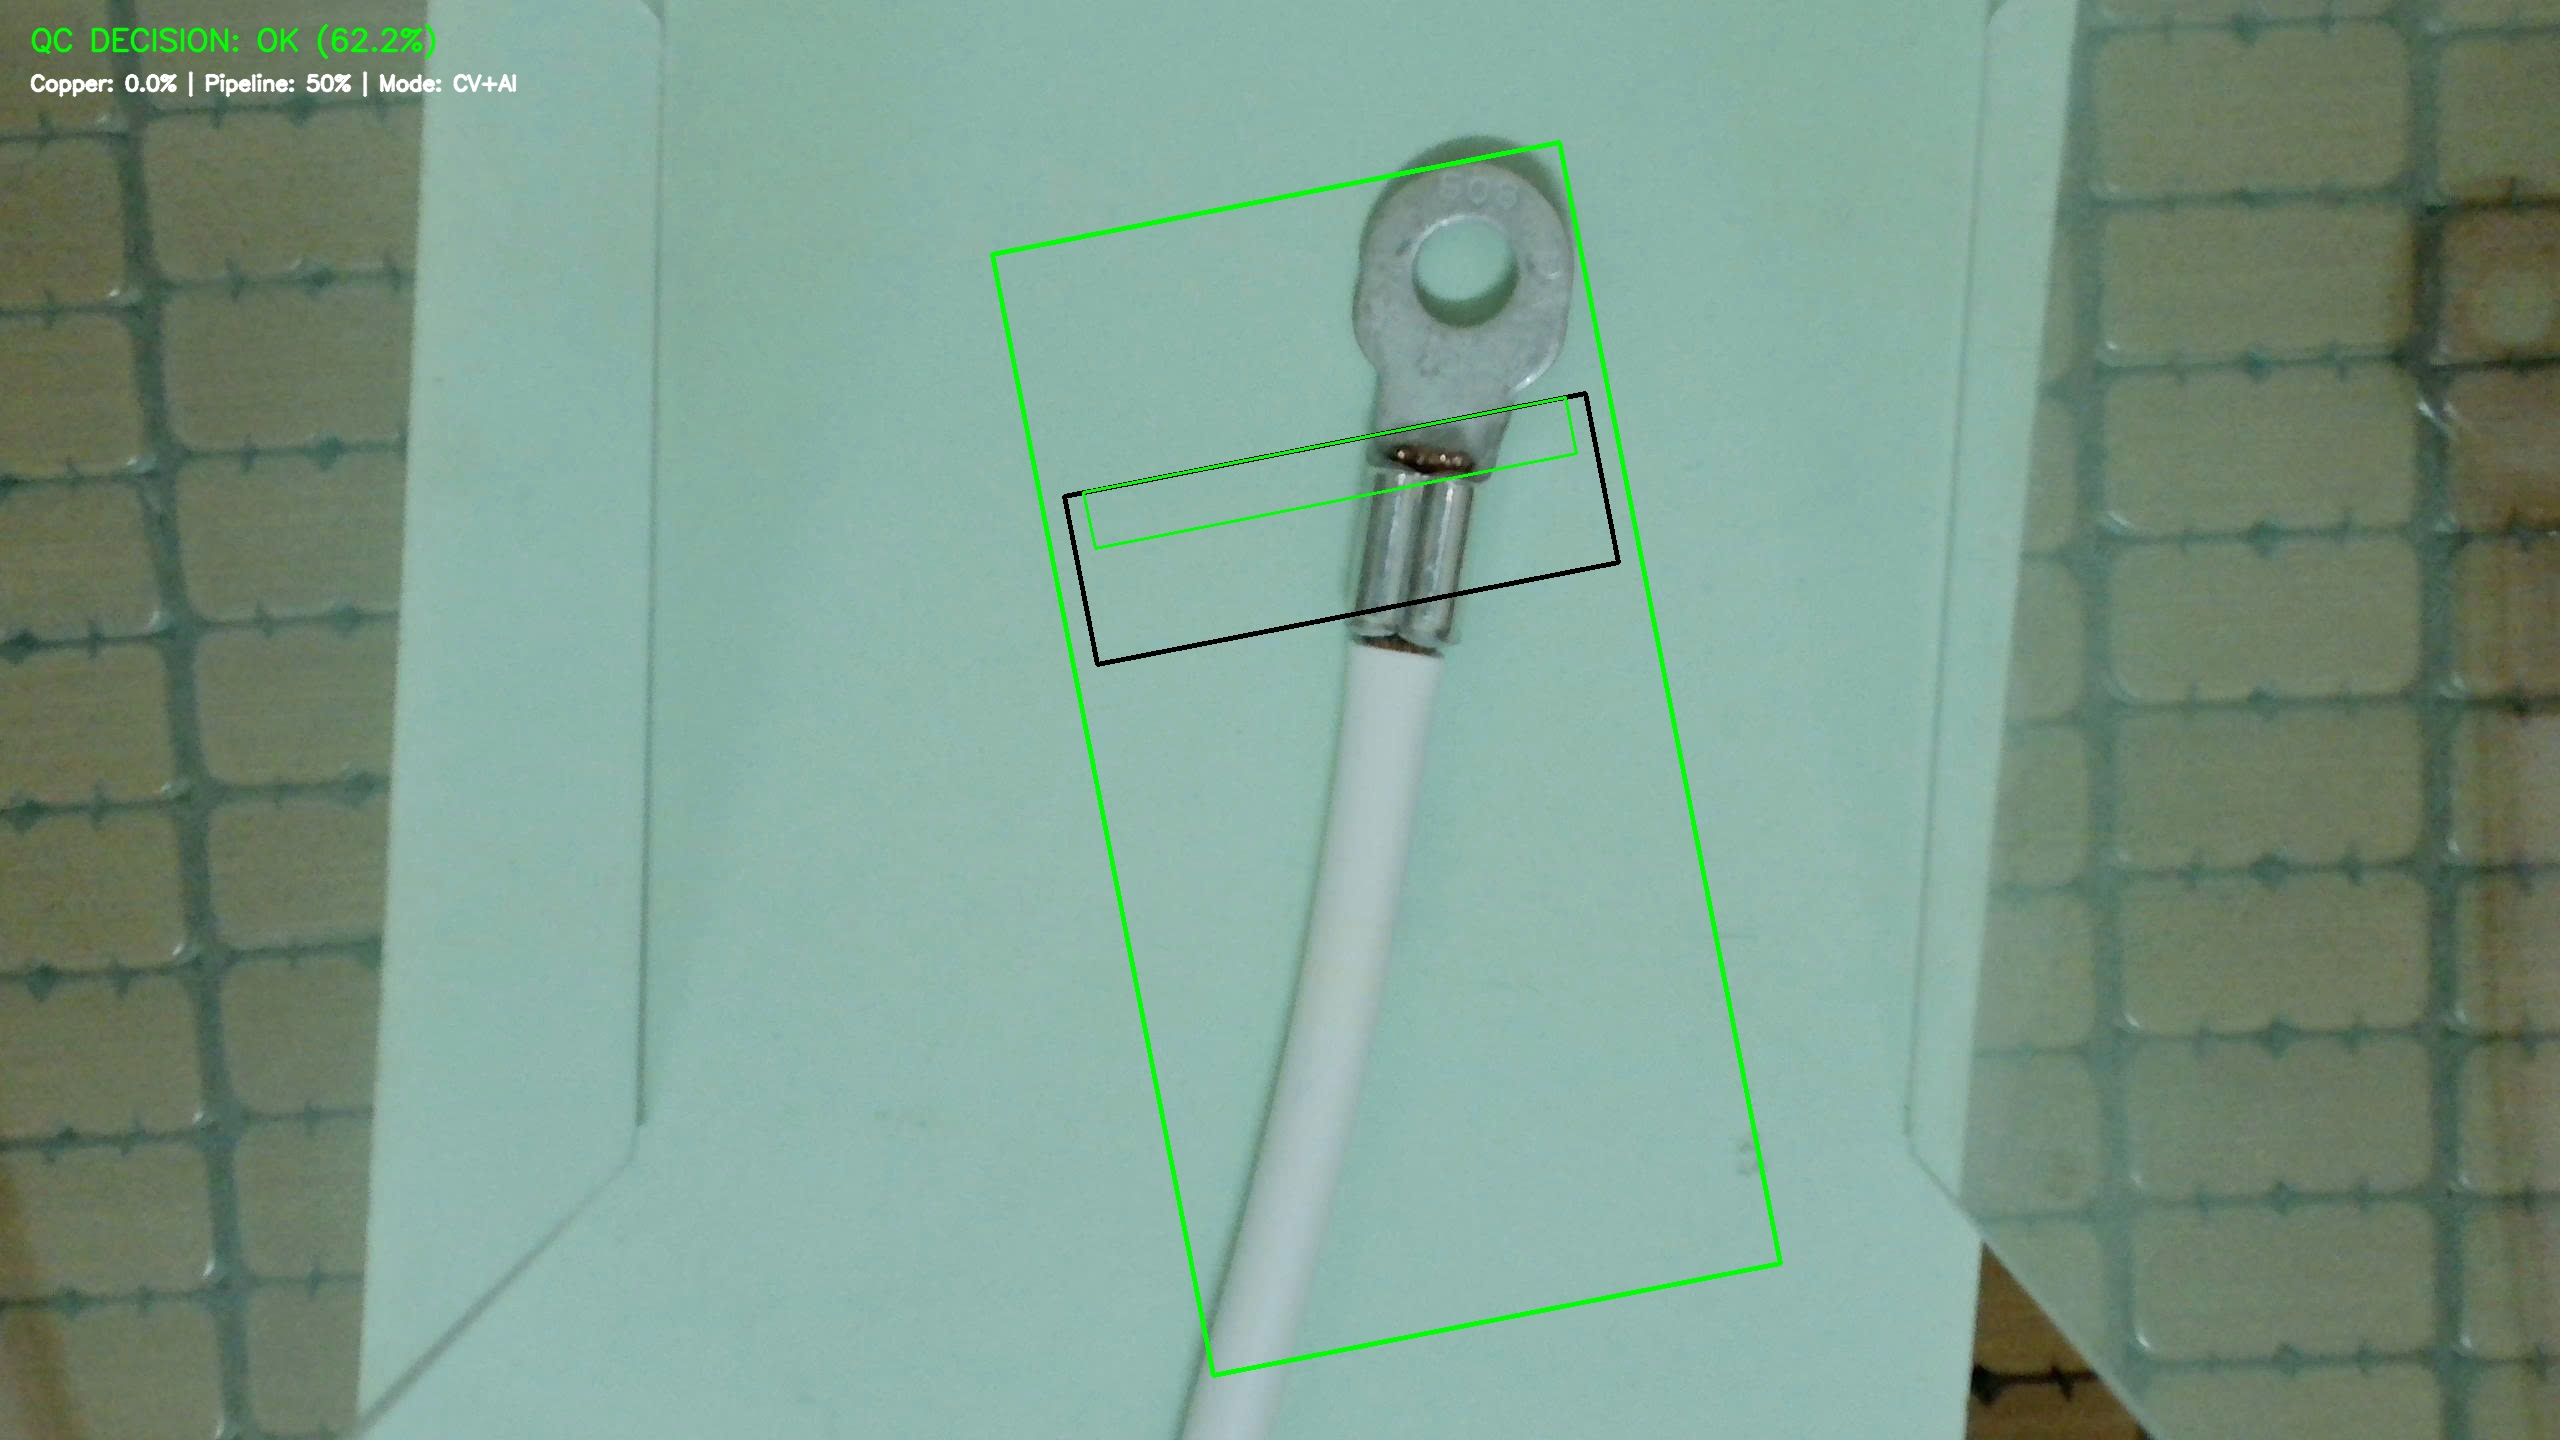
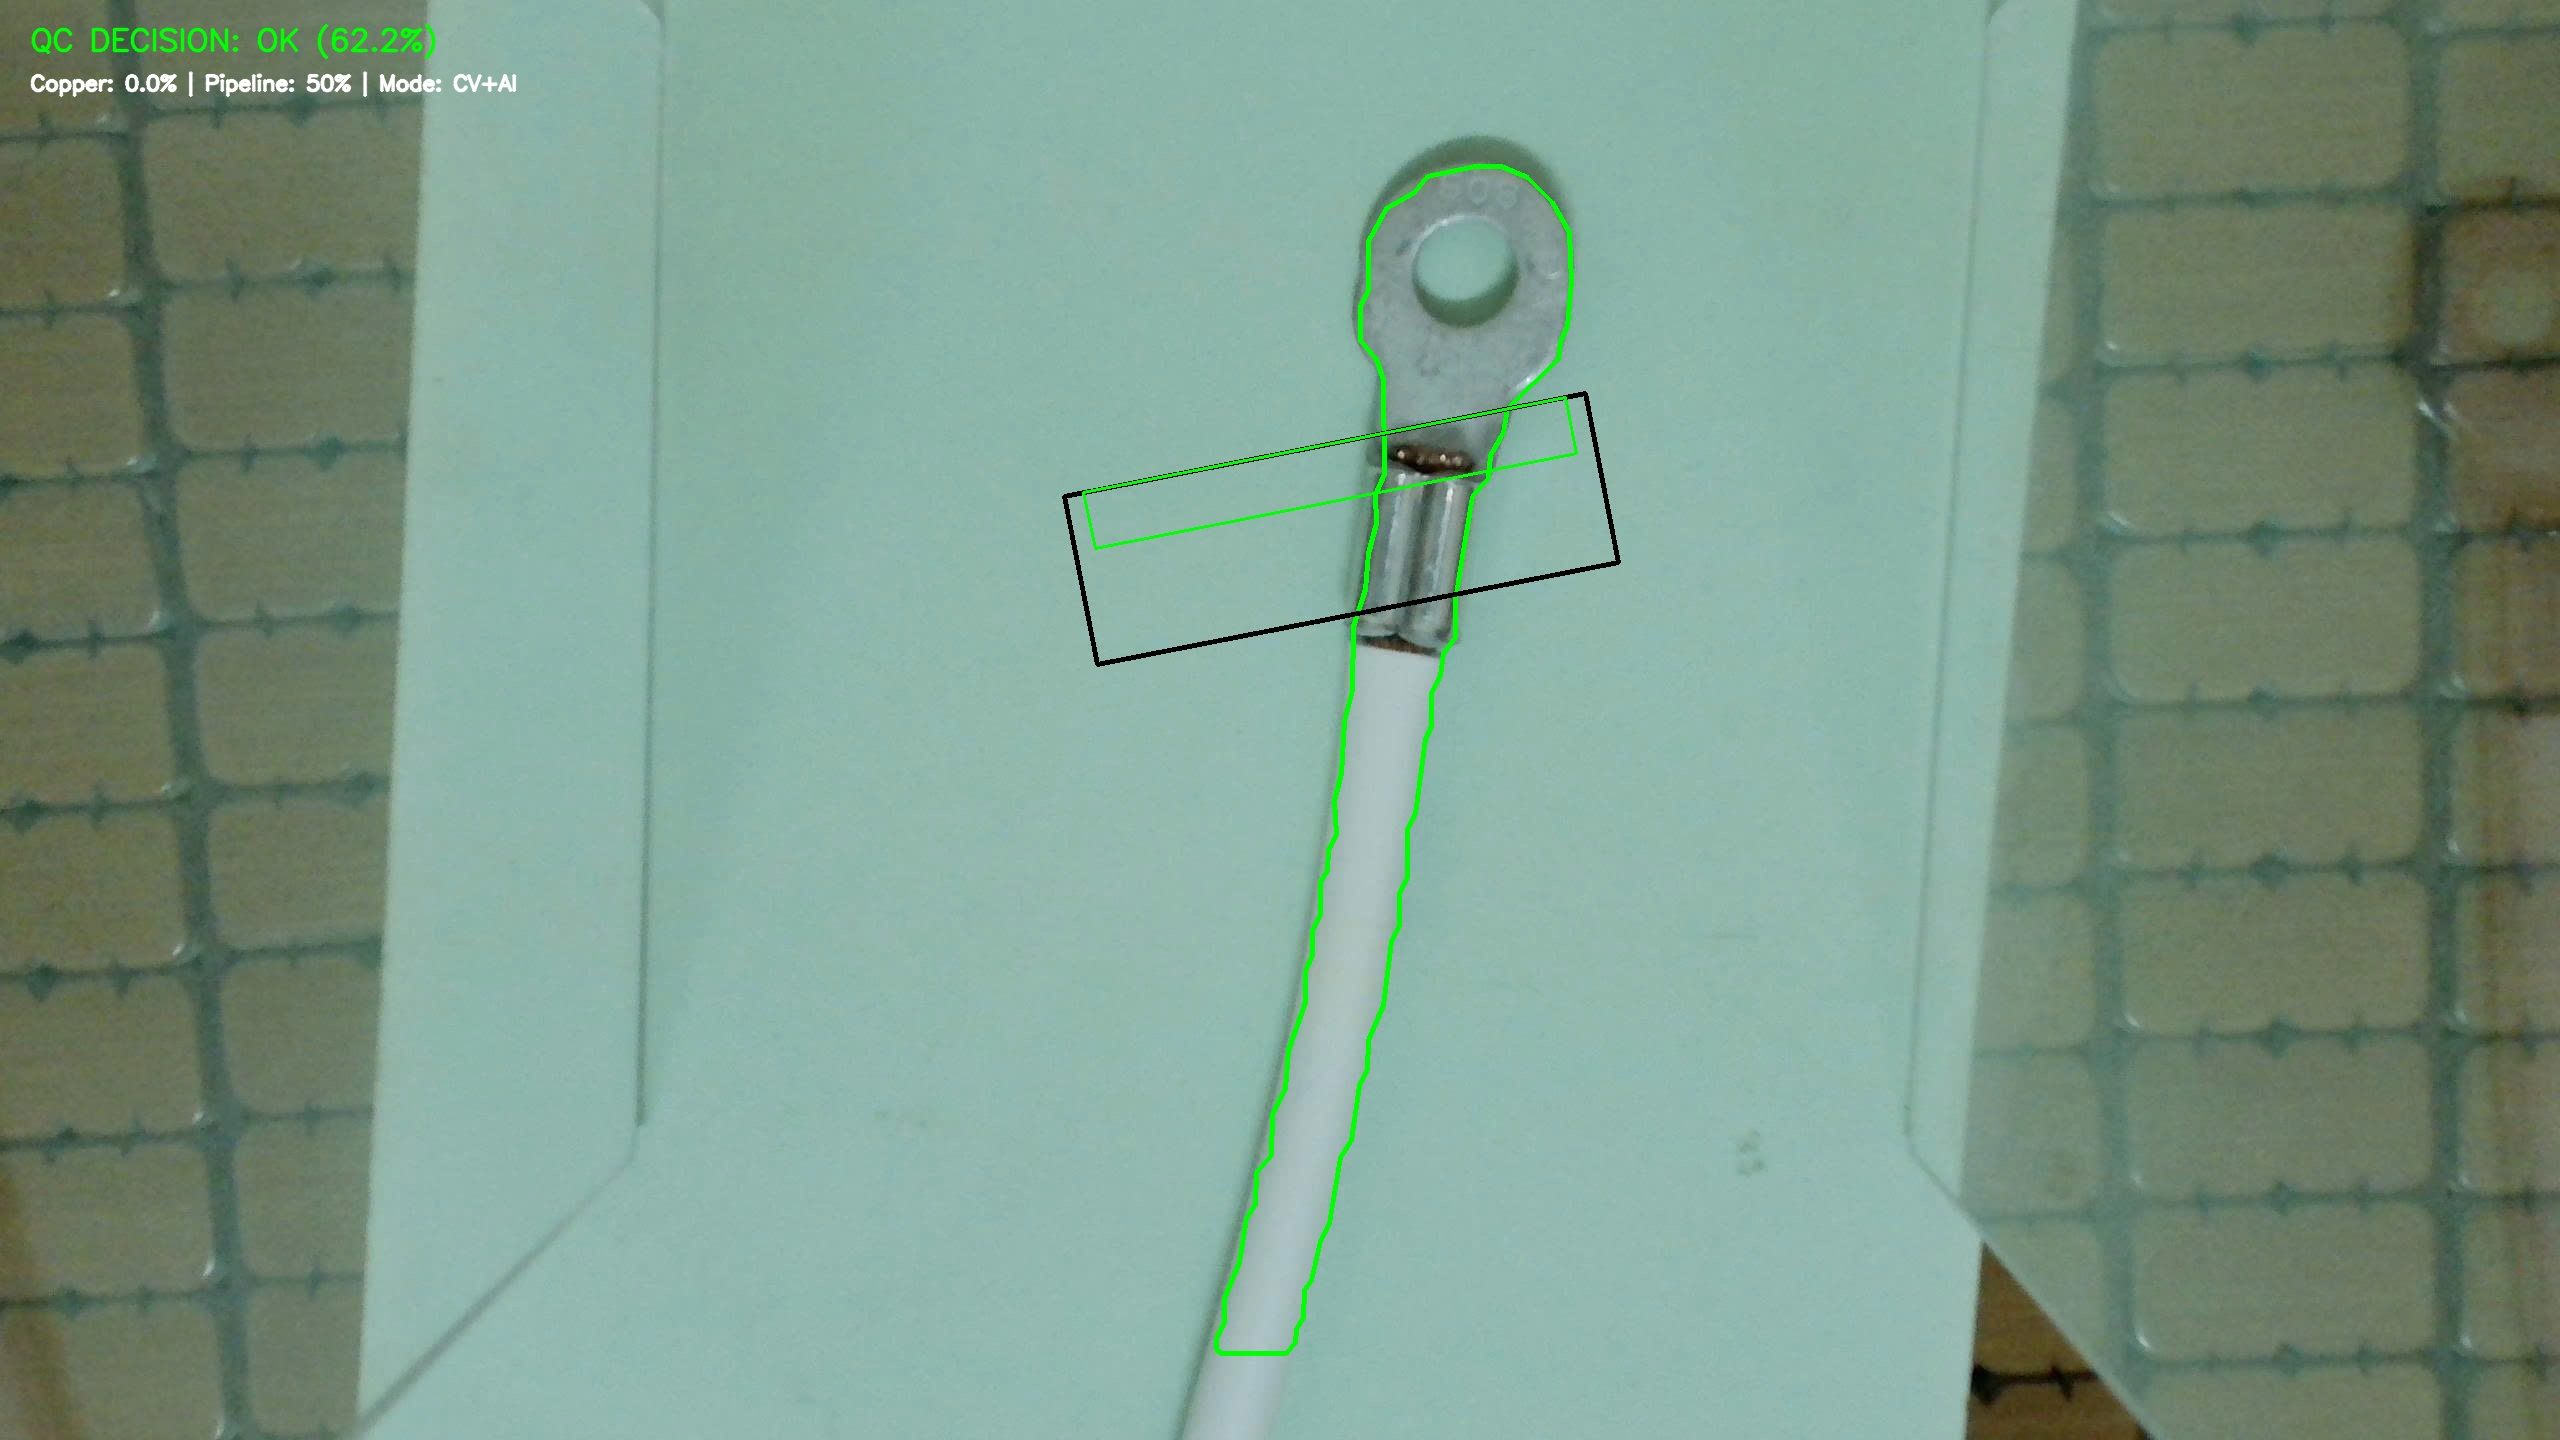
feat: draw tight contour border wrapping product shape 100% after background removal

diff --git a/defect_detection_huggingface/preprocessing/image_processor.py b/defect_detection_huggingface/preprocessing/image_processor.py
@@ -48,6 +48,7 @@ class ProcessingResult:
     copper_bbox_orig: Optional[Tuple[int, int, int, int]] = None
     terminal_pts: Optional[np.ndarray] = None  # (4, 2) Đỉnh khung đen xoay (crimp barrel)
     copper_pts: Optional[np.ndarray] = None    # (4, 2) Đỉnh khung xanh xoay (vùng đồng)
+    smooth_contour: Optional[np.ndarray] = None # Contour bo sát vật thể sau khi tách nền
 
     # Ảnh trực quan hóa từng bước
     vis_steps: Dict[str, np.ndarray] = field(default_factory=dict)
@@ -238,6 +239,23 @@ class ImageProcessor:
         if self.save_vis_steps:
             vis["06_roi_final"] = roi_final.copy()
 
+        # Tạo smooth_contour bo sát 100% đường viền thật của sản phẩm từ mask tách nền LAB
+        bg_fg_mask, _, _ = self._step1_remove_background(img_in, h, w)
+        smooth_contour = None
+        if bg_fg_mask is not None:
+            k_close = cv2.getStructuringElement(cv2.MORPH_ELLIPSE, (15, 15))
+            cleaned_m = cv2.morphologyEx(bg_fg_mask, cv2.MORPH_CLOSE, k_close, iterations=3)
+            cleaned_m = cv2.morphologyEx(cleaned_m, cv2.MORPH_OPEN, cv2.getStructuringElement(cv2.MORPH_ELLIPSE, (7, 7)))
+
+            blurred_mask = cv2.GaussianBlur(cleaned_m, (21, 21), 0)
+            _, th_smooth = cv2.threshold(blurred_mask, 120, 255, cv2.THRESH_BINARY)
+            cnts_smooth, _ = cv2.findContours(th_smooth, cv2.RETR_EXTERNAL, cv2.CHAIN_APPROX_NONE)
+            valid_sm = [c for c in cnts_smooth if cv2.contourArea(c) > 10000 and (0.2*w <= (cv2.boundingRect(c)[0]+cv2.boundingRect(c)[2]/2) <= 0.8*w)]
+            if valid_sm:
+                c_best_sm = max(valid_sm, key=cv2.contourArea)
+                epsilon = 0.001 * cv2.arcLength(c_best_sm, True)
+                smooth_contour = cv2.approxPolyDP(c_best_sm, epsilon, True)
+
         # Tính pipeline confidence tổng thể
         pipeline_confidence = float(np.mean(confidence_scores)) if confidence_scores else 0.5
 
@@ -260,6 +278,7 @@ class ImageProcessor:
             centroid=centroid,
             terminal_pts=terminal_pts,
             copper_pts=copper_pts,
+            smooth_contour=smooth_contour,
             vis_steps=vis,
         )
 

diff --git a/defect_detection_huggingface/inference/predict.py b/defect_detection_huggingface/inference/predict.py
@@ -199,11 +199,13 @@ class QualityInspector:
                 effective_confidence = pipeline_conf * 0.7
             color = (0, 255, 0) if final_decision == "OK" else (0, 0, 255)
 
-        # 4. Vẽ trực quan hóa 3 khung xoay đồng góc (minAreaRect-aligned) trên ảnh gốc
+        # 4. Vẽ trực quan hóa 3 thành phần trên ảnh gốc theo đúng yêu cầu
         vis_img = img_bgr.copy()
 
-        # 1. Khung ngoài cùng (Xanh lá): Bao quanh toàn bộ sản phẩm (Rotated Rect)
-        if proc_result.outer_rect is not None:
+        # 1. Border xanh lá cây ngoài cùng: Bo sát 100% theo dạng thực tế của vật thể sau khi remove background
+        if proc_result.smooth_contour is not None:
+            cv2.drawContours(vis_img, [proc_result.smooth_contour], -1, (0, 255, 0), 3)
+        elif proc_result.outer_rect is not None:
             box = cv2.boxPoints(proc_result.outer_rect)
             box = np.intp(box)
             cv2.drawContours(vis_img, [box], 0, (0, 255, 0), 3)
